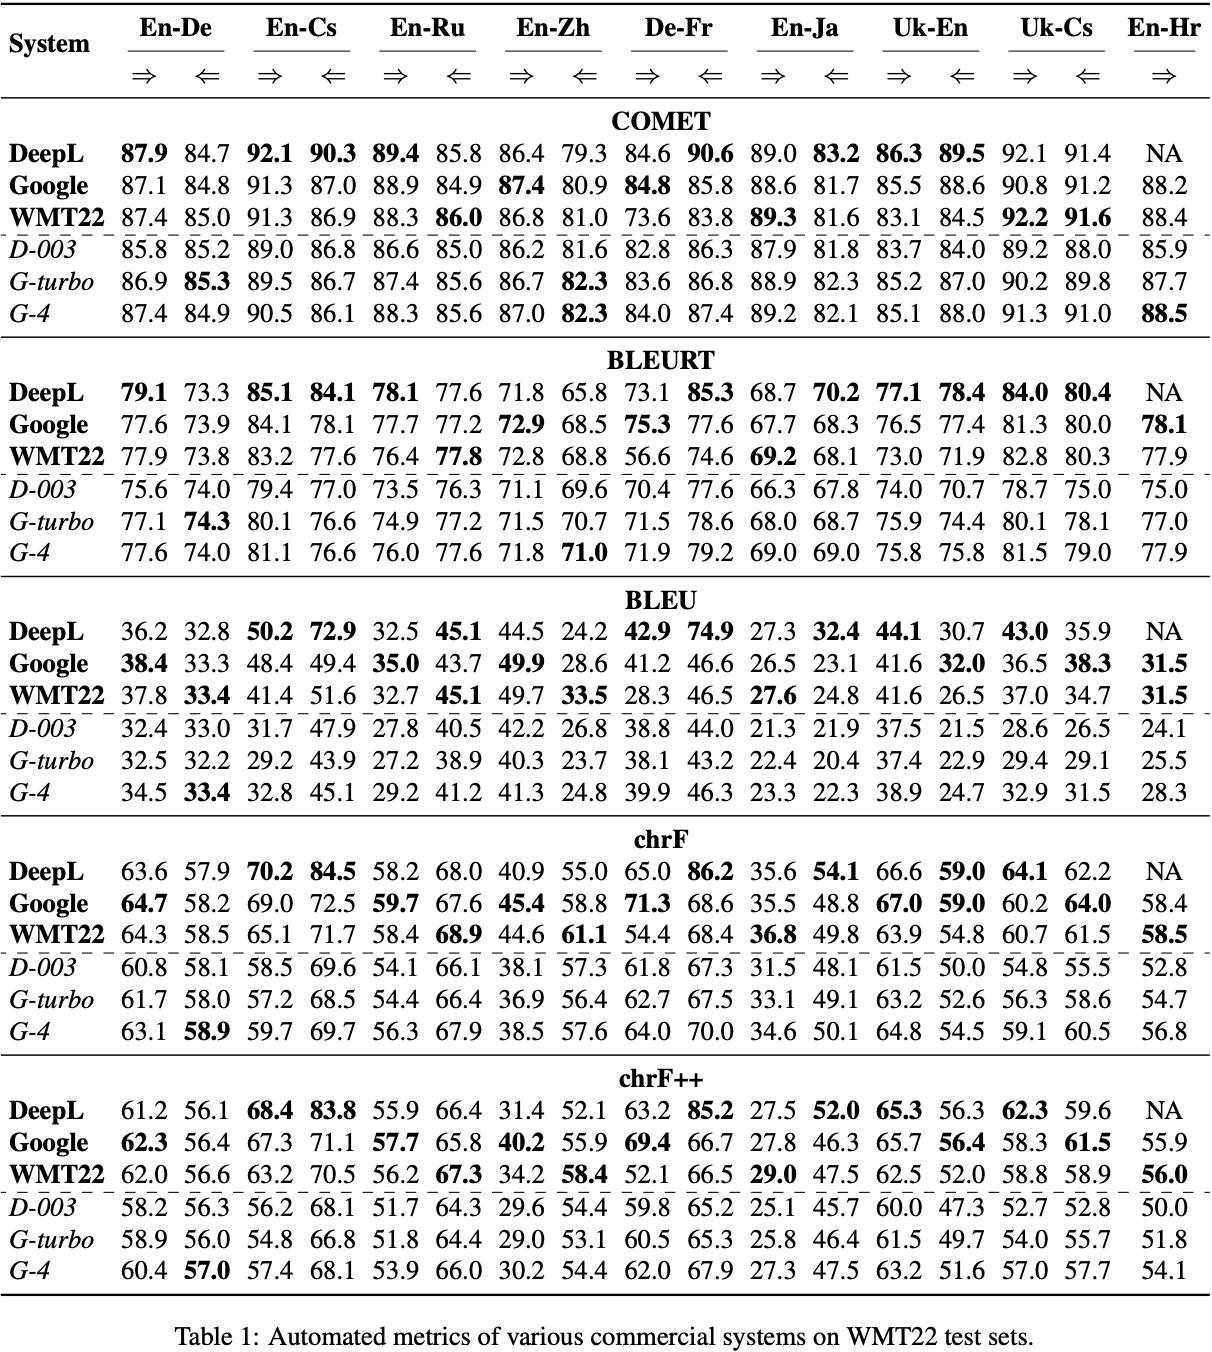
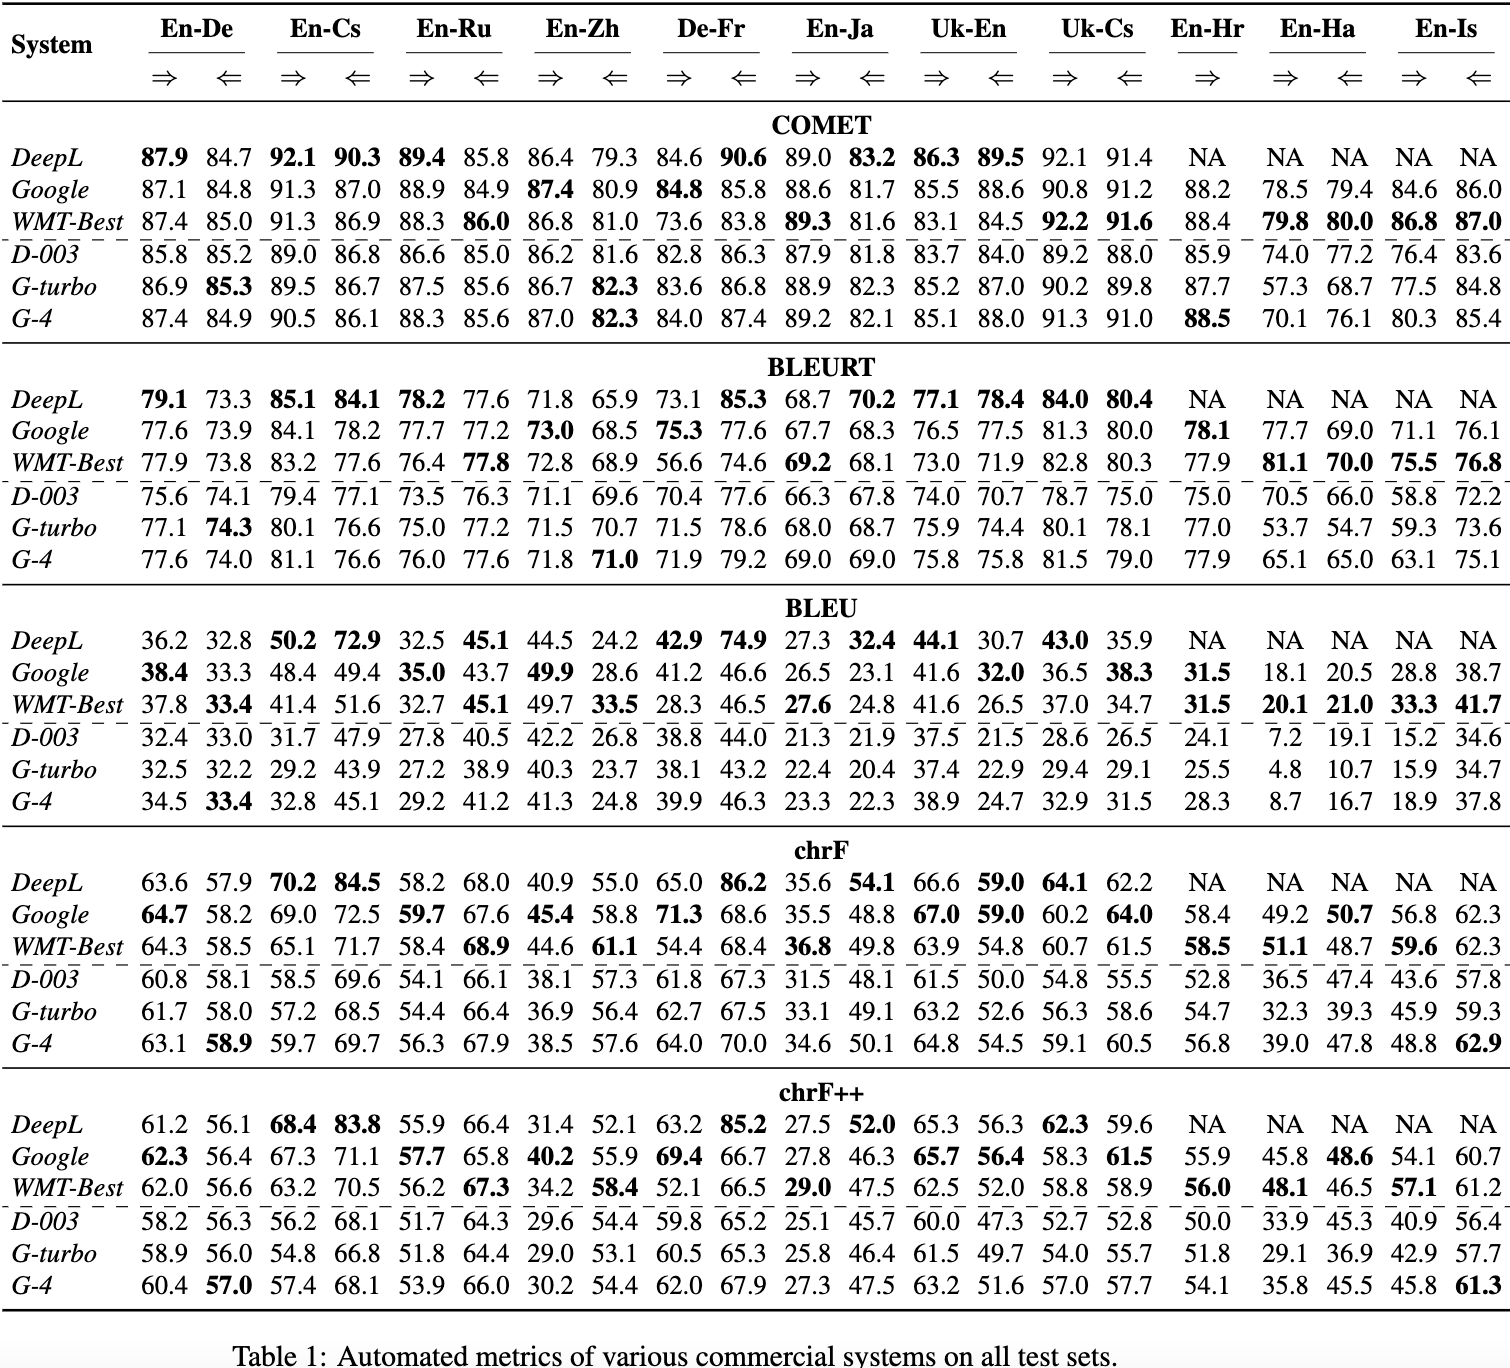
update readme

Changed region(s): [[0.0, 0.0, 1.0, 1.0], [0.0916, 0.0, 0.4884, 0.0621], [0.0, 0.0, 0.0611, 0.0621]]

diff --git a/evaluation/eval.py b/evaluation/eval.py
@@ -258,7 +258,7 @@ def check_equal_num_lines(lst):
 def parse_args():
     parser = argparse.ArgumentParser("", formatter_class=argparse.ArgumentDefaultsHelpFormatter)
     parser.add_argument("--comet-model-name", type=str, default="Unbabel/wmt22-comet-da")
-    parser.add_argument("--bleurt-ckpt", type=str, default="/apdcephfs_cq2/share_916081/timurhe/bleurt/BLEURT-20")
+    parser.add_argument("--bleurt-ckpt", type=str, required=True)
     parser.add_argument("--batch-size", type=int, default=200)
     return parser.parse_args()
 
@@ -269,46 +269,46 @@ if __name__ == "__main__":
     batch_size = args.batch_size
 
 
-    # # Full results
-    # for metric in METRICS:
-    #     data = {
-    #         'System': LANG_PAIR2SPLIT.keys(),
-    #     }
-    #     with tqdm(total=len(SYSTEMS) * len(LANG_PAIR2SPLIT), desc=metric) as pbar:
-    #         for system in SYSTEMS:
-    #             data[system] = []
-    #             for lang_pair in LANG_PAIR2SPLIT.keys():
-    #                 split = LANG_PAIR2SPLIT[lang_pair]
-    #                 src_lang, tgt_lang = lang_pair.split('-')
+    # Full results
+    for metric in METRICS:
+        data = {
+            'System': LANG_PAIR2SPLIT.keys(),
+        }
+        with tqdm(total=len(SYSTEMS) * len(LANG_PAIR2SPLIT), desc=metric) as pbar:
+            for system in SYSTEMS:
+                data[system] = []
+                for lang_pair in LANG_PAIR2SPLIT.keys():
+                    split = LANG_PAIR2SPLIT[lang_pair]
+                    src_lang, tgt_lang = lang_pair.split('-')
 
-    #                 src_lines = readlines(os.path.join(RAW_DATA_DIR, f"{split}.{lang_pair}.{src_lang}"))
-    #                 ref_lines = readlines(os.path.join(RAW_DATA_DIR, f"{split}.{lang_pair}.{tgt_lang}"))
-    #                 sys_lines = readlines(os.path.join(OUTPUT_DIR, system, f"{split}.{lang_pair}.{tgt_lang}"))
+                    src_lines = readlines(os.path.join(RAW_DATA_DIR, f"{split}.{lang_pair}.{src_lang}"))
+                    ref_lines = readlines(os.path.join(RAW_DATA_DIR, f"{split}.{lang_pair}.{tgt_lang}"))
+                    sys_lines = readlines(os.path.join(OUTPUT_DIR, system, f"{split}.{lang_pair}.{tgt_lang}"))
 
-    #                 if check_equal_num_lines([src_lines, ref_lines, sys_lines]):
-    #                     scorer = eval(metric)
-    #                     score = scorer(**{
-    #                         "sys_lines": sys_lines,
-    #                         "src_lines": src_lines,
-    #                         "ref_lines": ref_lines,
-    #                         "comet_model_name": comet_model_name,
-    #                         "cache_dir": CACHE_DIR,
-    #                         "bleurt_ckpt": bleurt_ckpt,
-    #                         "batch_size": batch_size,
-    #                         "tgt_lang": tgt_lang
-    #                     })
-    #                 else:
-    #                     score = "NA"
-    #                 data[system].append(score)
-    #                 pbar.update(1)
-    #     df = pd.DataFrame(data)
+                    if check_equal_num_lines([src_lines, ref_lines, sys_lines]):
+                        scorer = eval(metric)
+                        score = scorer(**{
+                            "sys_lines": sys_lines,
+                            "src_lines": src_lines,
+                            "ref_lines": ref_lines,
+                            "comet_model_name": comet_model_name,
+                            "cache_dir": CACHE_DIR,
+                            "bleurt_ckpt": bleurt_ckpt,
+                            "batch_size": batch_size,
+                            "tgt_lang": tgt_lang
+                        })
+                    else:
+                        score = "NA"
+                    data[system].append(score)
+                    pbar.update(1)
+        df = pd.DataFrame(data)
 
-    #     for system in SYSTEMS:
-    #         df[system] = pd.to_numeric(df[system], errors='coerce')
-    #         df[system] = df[system].round(1)
-    #         df.fillna('NA', inplace=True)
-    #     print(f"{metric}: ")
-    #     print(df.T.to_latex(header=None))
+        for system in SYSTEMS:
+            df[system] = pd.to_numeric(df[system], errors='coerce')
+            df[system] = df[system].round(1)
+            df.fillna('NA', inplace=True)
+        print(f"{metric}: ")
+        print(df.T.to_latex(header=None))
 
 
     print("AVG: ALL_LANG_PAIRS_SUPPORTED")

diff --git a/README.md b/README.md
@@ -27,7 +27,12 @@ in automatic metrics:
 * English<->Japanese
 * Ukrainian<->English
 * Ukrainian<->Czech
-* English->Croatian.
+* English->Croatian
+
+and WMT21 news translation tasks:
+
+* English<->Hausa
+* English<->Icelandic
 
 
 
@@ -42,7 +47,7 @@ output/
 |-- gpt-3.5-turbo-0301
 |-- gpt-4-0314
 |-- text-davinci-003
-`-- wmt22-winner
+`-- wmt-winner
 ```
 
 #### Full results
@@ -55,10 +60,10 @@ output/
 
 #### **Average performance**
 
-**All language pairs (except English->Croatian)**
+**All language pairs** （except for those not supported by DeepL）
 
 <p align="center">
-<img src="imgs/avg_all.png" alt="avg_all", width="400"/>
+<img src="imgs/avg_all.png" alt="avg_all", width="500"/>
 </p>
 
 **High resource**
@@ -66,13 +71,29 @@ output/
 * En<->De, En<->Cs, En<->Ru, En<->Zh
 
 <p align="center">
-<img src="imgs/avg_high.png" alt="avg_high", width="400"/>
+<img src="imgs/avg_high.png" alt="avg_high", width="500"/>
 </p>
 
 **Medium resource**
 
-* De<->Fr, En<->Ja, En<->Uk
+* De<->Fr, En<->Uk, En<->Ja
 
 <p align="center">
-<img src="imgs/avg_high.png" alt="avg_mid", width="400"/>
+<img src="imgs/avg_mid.png" alt="avg_mid", width="500"/>
 </p>
+
+**Low resource**
+
+* Uk<->Cs, En<->Hr, En<->Ha, En<->Is
+
+<p align="center">
+<img src="imgs/avg_low.png" alt="avg_low", width="500"/>
+</p>
+
+### Evaluation
+
+```sh
+wget https://storage.googleapis.com/bleurt-oss-21/BLEURT-20.zip .
+unzip BLEURT-20.zip
+python3 evaluation/eval.log --bleurt-ckpt BLEURT-20
+```
